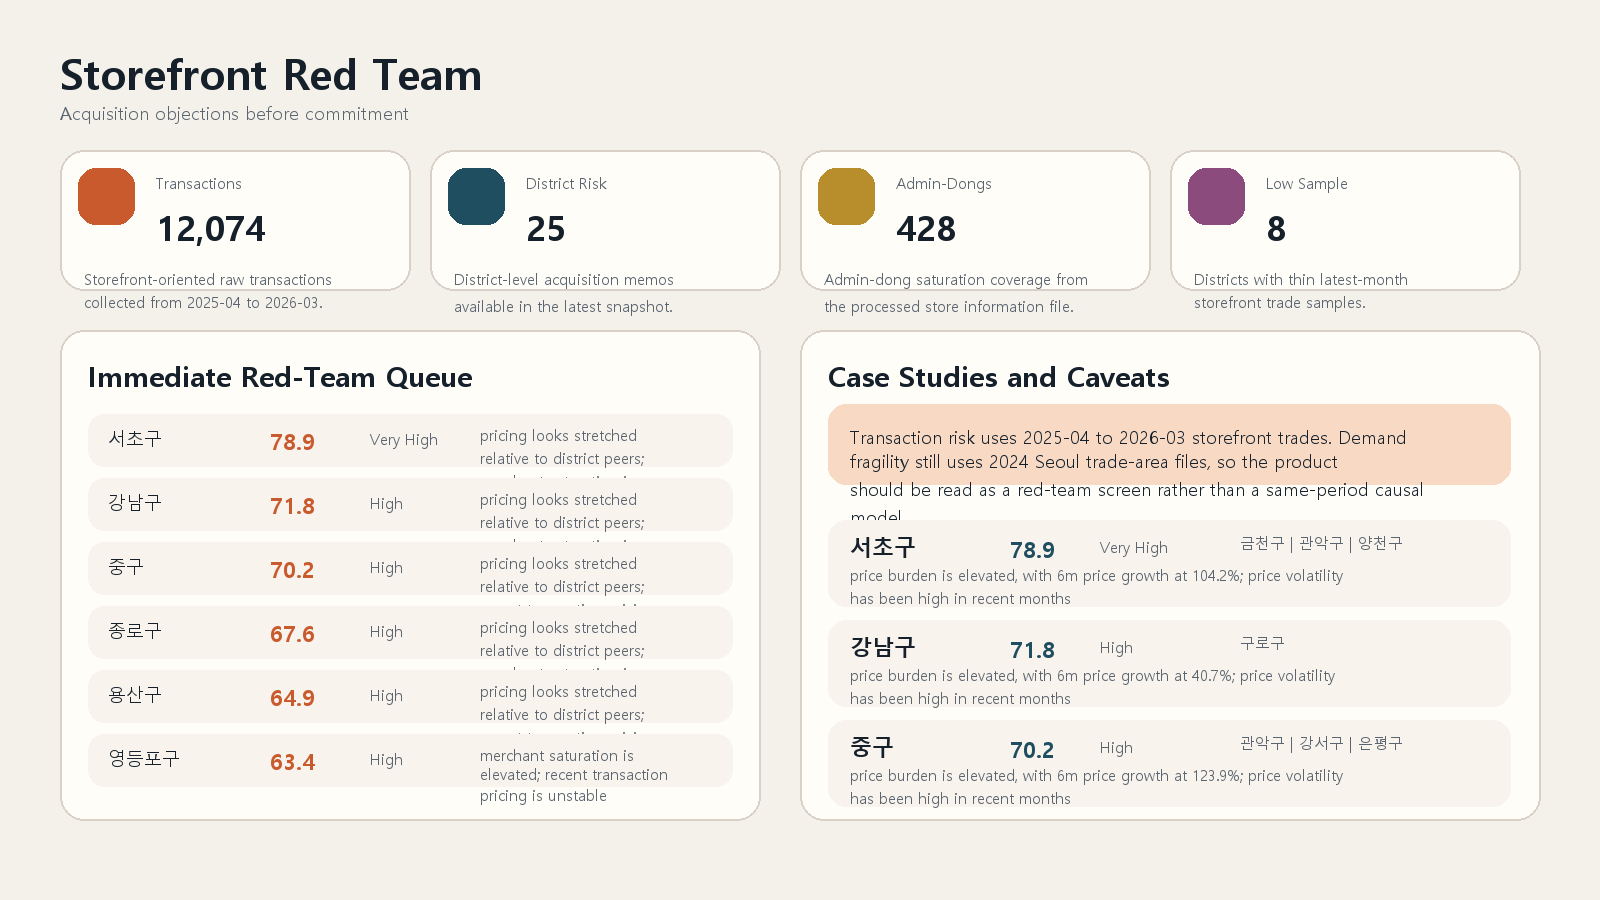
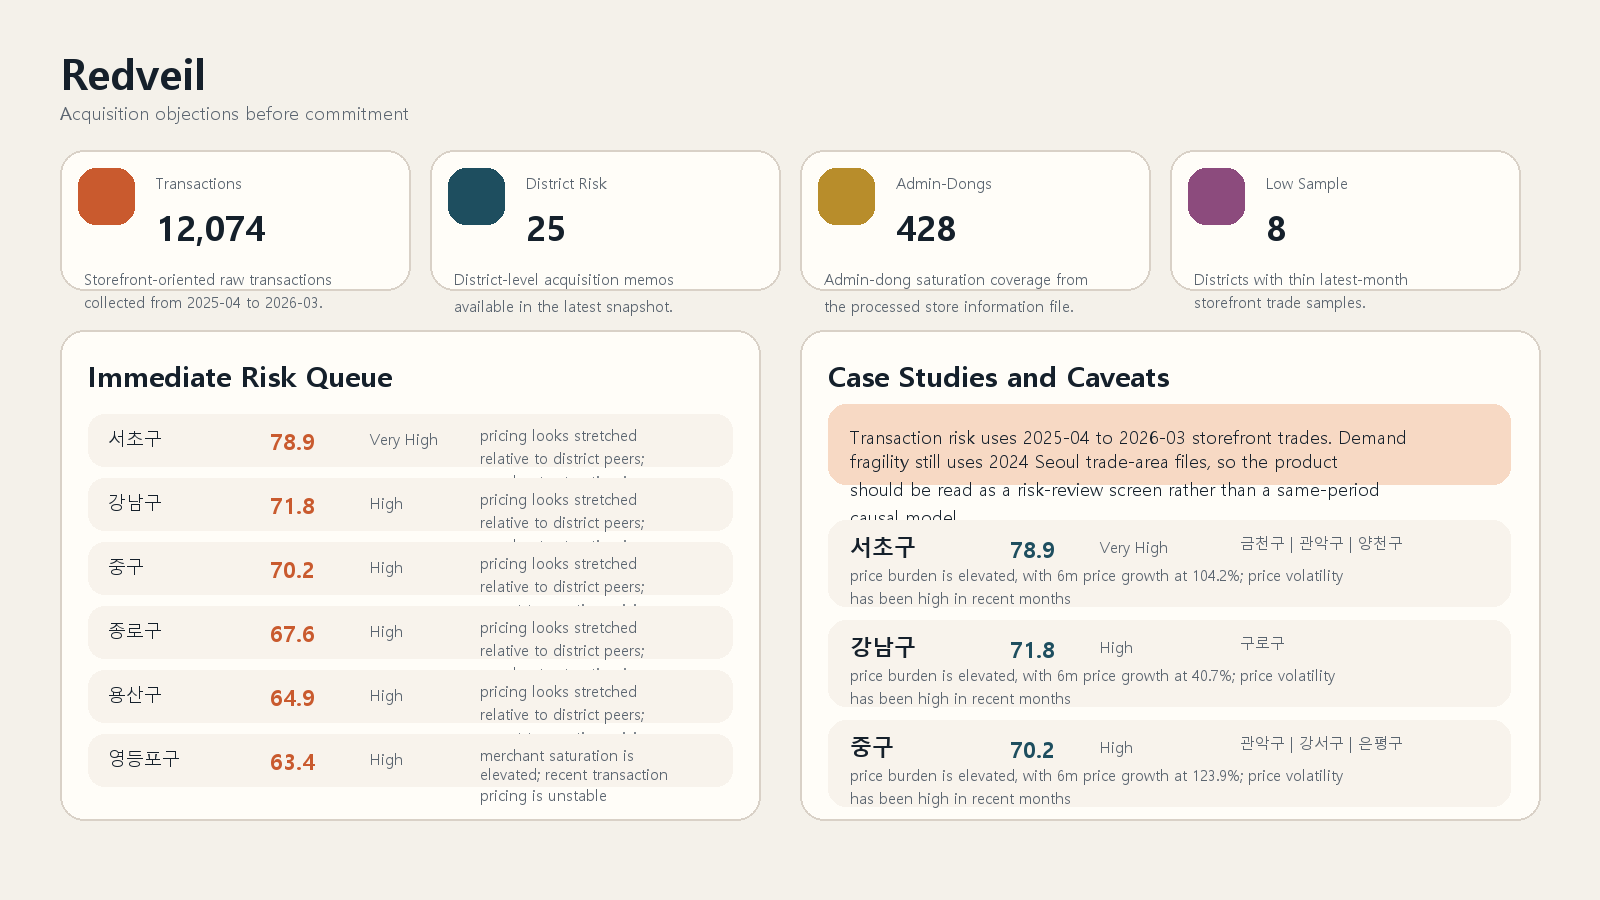
Refresh Redveil website payload and dashboard assets

diff --git a/app/site/website_payload.js b/app/site/website_payload.js
@@ -1,4 +1,4 @@
-window.__RED_TEAM_PAYLOAD__ = {
+window.__REDVEIL_PAYLOAD__ = {
   "site": {
     "title": "Redveil",
     "subtitle": "서울 소형 상가 매입 리스크 판별 서비스",

diff --git a/dashboard/dashboard_links.md b/dashboard/dashboard_links.md
@@ -3,7 +3,7 @@
 Local PNG assets generated from the current project snapshot:
 
 - [01_overview.png](/Users/a0109/.jupyter/01_projects/retail_marketing/commercial_investment_risk/dashboard/01_overview.png)
-- [02_district_red_team.png](/Users/a0109/.jupyter/01_projects/retail_marketing/commercial_investment_risk/dashboard/02_district_red_team.png)
+- [02_district_risk_review.png](/Users/a0109/.jupyter/01_projects/retail_marketing/commercial_investment_risk/dashboard/02_district_risk_review.png)
 - [03_case_study.png](/Users/a0109/.jupyter/01_projects/retail_marketing/commercial_investment_risk/dashboard/03_case_study.png)
 - [04_demand_fragility.png](/Users/a0109/.jupyter/01_projects/retail_marketing/commercial_investment_risk/dashboard/04_demand_fragility.png)
 - [05_admin_dong_saturation.png](/Users/a0109/.jupyter/01_projects/retail_marketing/commercial_investment_risk/dashboard/05_admin_dong_saturation.png)

diff --git a/dashboard/DASHBOARD_SHOTLIST.md b/dashboard/DASHBOARD_SHOTLIST.md
@@ -2,13 +2,13 @@
 
 ## 1. Overview
 
-- 목적: 프로젝트가 `추천`이 아니라 `레드팀`이라는 점을 한 장에서 설명
+- 목적: 프로젝트가 `추천`이 아니라 `리스크 판별` 서비스라는 점을 한 장에서 설명
 - 포함 요소:
-- `Immediate red-team queue`
+- `Immediate risk queue`
 - `Current case studies`
 - 시점 불일치 경고
 
-## 2. District Red Team
+## 2. District Risk Review
 
 - 목적: 한 구를 선택했을 때 `총점 -> 반대 메모 -> 근거 -> 대체 후보` 흐름이 보이게 저장
 - 추천 구:

diff --git a/dashboard/README.md b/dashboard/README.md
@@ -5,7 +5,7 @@
 권장 구성:
 
 - `01_overview.png`
-- `02_district_red_team.png`
+- `02_district_risk_review.png`
 - `03_case_study.png`
 - `04_demand_fragility.png`
 - `05_admin_dong_saturation.png`
